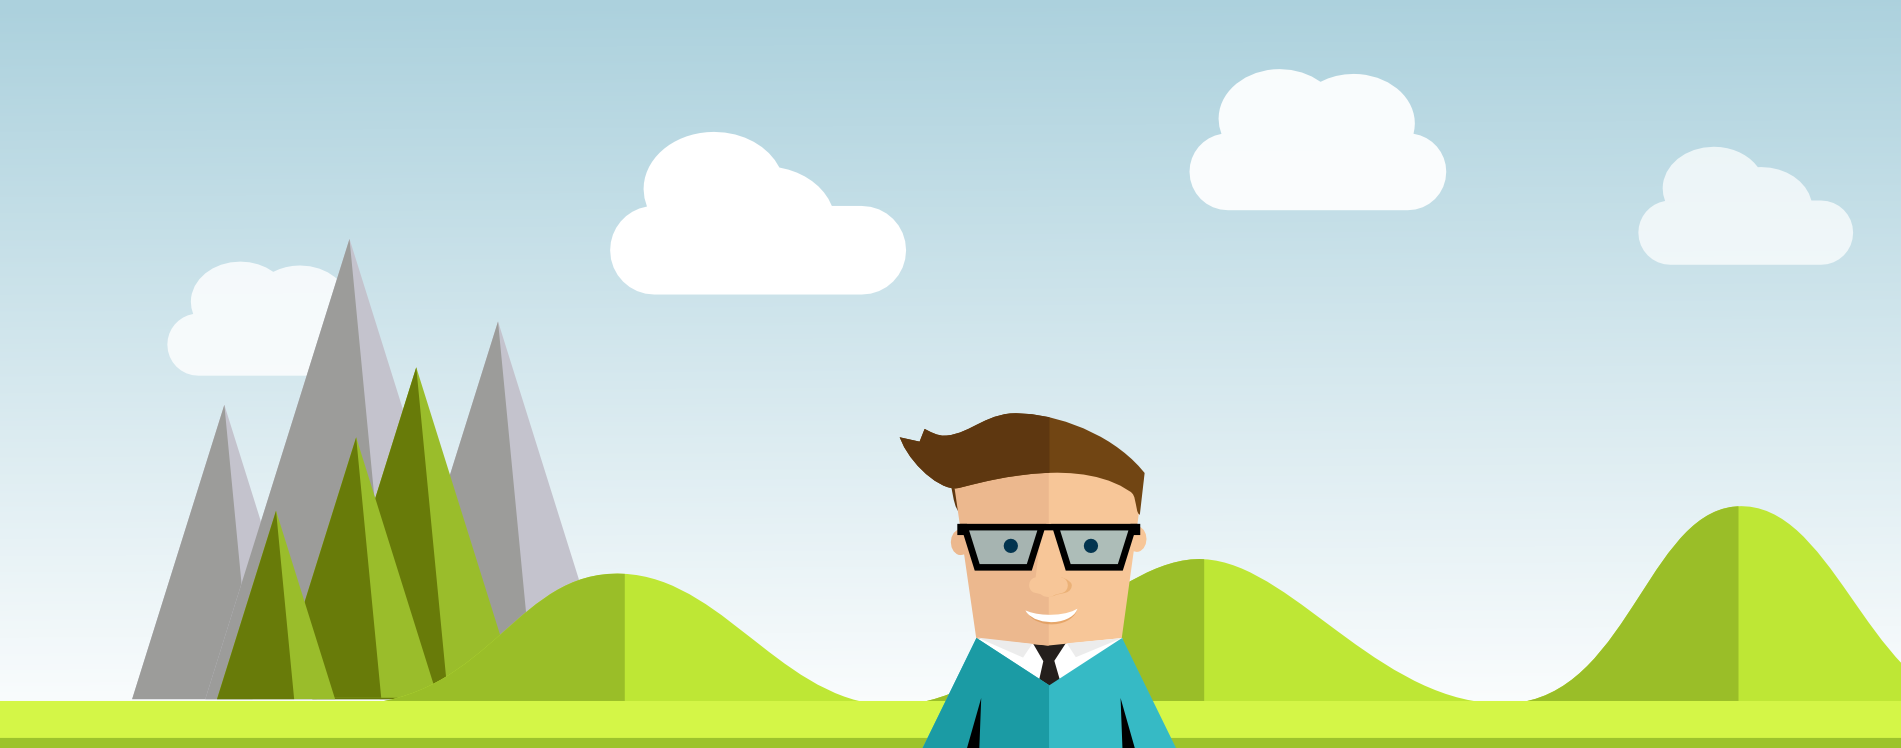
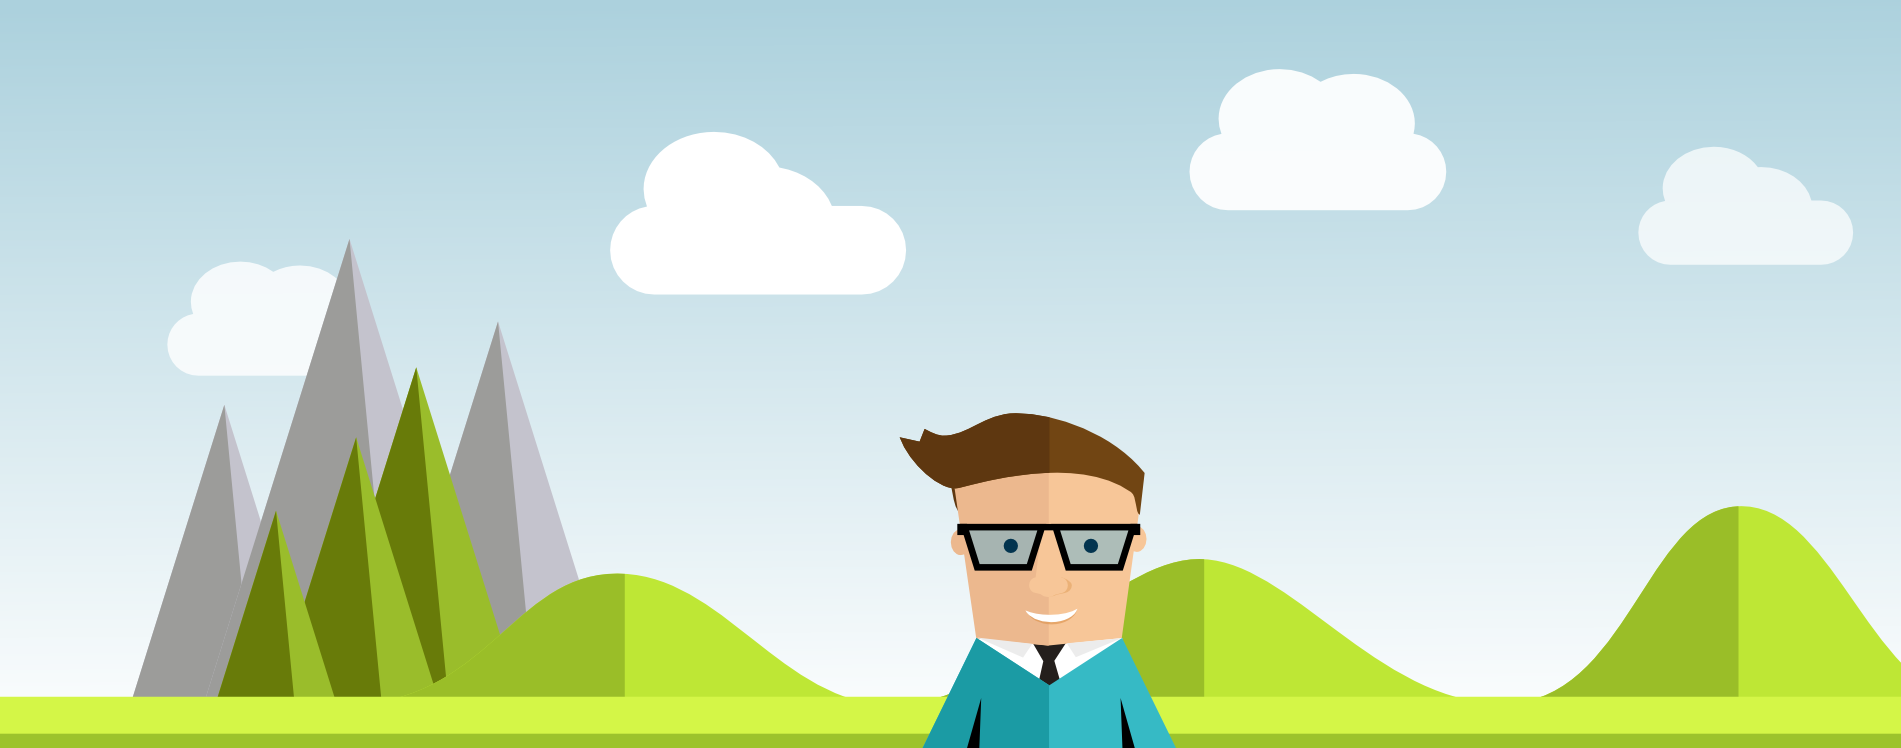
maquetado bg ok

diff --git a/static/frontend/stylesheets/portada.css b/static/frontend/stylesheets/portada.css
@@ -64,7 +64,7 @@ body {
   color: #222222;
   padding: 0;
   margin: 0;
-  font-family: "Helvetica Neue", Helvetica, Roboto, Arial, sans-serif;
+  font-family: "Asap", "Helvetica Neue", Helvetica, Roboto, Arial, sans-serif;
   font-weight: normal;
   font-style: normal;
   line-height: 1.5;
@@ -1621,7 +1621,7 @@ select {
   color: #222222;
   padding: 1rem;
   display: block;
-  font-family: "Helvetica Neue", Helvetica, Roboto, Arial, sans-serif;
+  font-family: "Asap", "Helvetica Neue", Helvetica, Roboto, Arial, sans-serif;
   font-size: 1rem;
 }
 /* line 143, ../bower_components/foundation/scss/foundation/components/_accordion.scss */
@@ -2328,7 +2328,7 @@ button, .button {
   border-style: solid;
   border-width: 0px;
   cursor: pointer;
-  font-family: "Helvetica Neue", Helvetica, Roboto, Arial, sans-serif;
+  font-family: "Asap", "Helvetica Neue", Helvetica, Roboto, Arial, sans-serif;
   font-weight: normal;
   line-height: normal;
   margin: 0 0 1.25rem;
@@ -4267,7 +4267,7 @@ select {
   border-color: #cccccc;
   padding: 0.5rem;
   font-size: 0.875rem;
-  font-family: "Helvetica Neue", Helvetica, Roboto, Arial, sans-serif;
+  font-family: "Asap", "Helvetica Neue", Helvetica, Roboto, Arial, sans-serif;
   color: rgba(0, 0, 0, 0.75);
   line-height: normal;
   border-radius: 0;
@@ -4885,7 +4885,7 @@ kbd {
 /* line 91, ../bower_components/foundation/scss/foundation/components/_labels.scss */
 .label {
   font-weight: normal;
-  font-family: "Helvetica Neue", Helvetica, Roboto, Arial, sans-serif;
+  font-family: "Asap", "Helvetica Neue", Helvetica, Roboto, Arial, sans-serif;
   text-align: center;
   text-decoration: none;
   line-height: 1;
@@ -5464,7 +5464,7 @@ ul.pagination li {
   color: #eeeeee;
   font-weight: normal;
   font-size: 1rem;
-  font-family: "Helvetica Neue", Helvetica, Roboto, Arial, sans-serif;
+  font-family: "Asap", "Helvetica Neue", Helvetica, Roboto, Arial, sans-serif;
 }
 /* line 143, ../bower_components/foundation/scss/foundation/components/_pricing-tables.scss */
 .pricing-table .price {
@@ -5474,7 +5474,7 @@ ul.pagination li {
   color: #333333;
   font-weight: normal;
   font-size: 2rem;
-  font-family: "Helvetica Neue", Helvetica, Roboto, Arial, sans-serif;
+  font-family: "Asap", "Helvetica Neue", Helvetica, Roboto, Arial, sans-serif;
 }
 /* line 144, ../bower_components/foundation/scss/foundation/components/_pricing-tables.scss */
 .pricing-table .description {
@@ -5859,7 +5859,7 @@ dialog[open] {
   padding: 0.875rem 0;
   list-style-type: none;
   list-style-position: outside;
-  font-family: "Helvetica Neue", Helvetica, Roboto, Arial, sans-serif;
+  font-family: "Asap", "Helvetica Neue", Helvetica, Roboto, Arial, sans-serif;
 }
 /* line 70, ../bower_components/foundation/scss/foundation/components/_side-nav.scss */
 .side-nav li {
@@ -5883,7 +5883,7 @@ dialog[open] {
 .side-nav li.active > a:first-child:not(.button) {
   color: #1cc7ff;
   font-weight: normal;
-  font-family: "Helvetica Neue", Helvetica, Roboto, Arial, sans-serif;
+  font-family: "Asap", "Helvetica Neue", Helvetica, Roboto, Arial, sans-serif;
 }
 /* line 93, ../bower_components/foundation/scss/foundation/components/_side-nav.scss */
 .side-nav li.divider {
@@ -6053,7 +6053,7 @@ dialog[open] {
   display: inline;
   margin-left: 1rem;
   margin-bottom: 0;
-  font-family: "Helvetica Neue", Helvetica, Roboto, Arial, sans-serif;
+  font-family: "Asap", "Helvetica Neue", Helvetica, Roboto, Arial, sans-serif;
   font-weight: normal;
   font-size: 0.875rem;
   color: #999999;
@@ -6330,7 +6330,7 @@ table tr td {
   background-color: #efefef;
   color: #222222;
   padding: 1rem 2rem;
-  font-family: "Helvetica Neue", Helvetica, Roboto, Arial, sans-serif;
+  font-family: "Asap", "Helvetica Neue", Helvetica, Roboto, Arial, sans-serif;
   font-size: 1rem;
 }
 /* line 49, ../bower_components/foundation/scss/foundation/components/_tabs.scss */
@@ -6768,7 +6768,7 @@ meta.foundation-mq-topbar {
   color: white;
   padding: 12px 0 12px 0;
   padding-left: 15px;
-  font-family: "Helvetica Neue", Helvetica, Roboto, Arial, sans-serif;
+  font-family: "Asap", "Helvetica Neue", Helvetica, Roboto, Arial, sans-serif;
   font-size: 0.8125rem;
   font-weight: normal;
   text-transform: none;
@@ -7594,7 +7594,7 @@ p aside {
 /* Default header styles */
 /* line 252, ../bower_components/foundation/scss/foundation/components/_type.scss */
 h1, h2, h3, h4, h5, h6 {
-  font-family: "Helvetica Neue", Helvetica, Roboto, Arial, sans-serif;
+  font-family: "Ubuntu", sans-serif;
   font-weight: normal;
   font-style: normal;
   color: #222222;
@@ -9059,10 +9059,21 @@ th.hide-for-touch {
 }
 /* line 5, ../scss/portada.scss */
 .top-wrapper {
+  position: relative;
[1 lines of base64/hex data omitted]
   background-size: 100%;
   background-image: -webkit-gradient(linear, 50% 0%, 50% 100%, color-stop(0%, #9bc8d6), color-stop(100%, #f7fafb));
   background-image: -moz-linear-gradient(#9bc8d6, #f7fafb);
   background-image: -webkit-linear-gradient(#9bc8d6, #f7fafb);
   background-image: linear-gradient(#9bc8d6, #f7fafb);
+}
+/* line 9, ../scss/portada.scss */
+.top-wrapper:before {
+  content: "";
+  display: block;
+  position: absolute;
+  bottom: 0;
+  width: 100%;
+  height: 100px;
+  background: url(../images/bottom.png) repeat-x bottom;
 }

diff --git a/static/frontend/stylesheets/app.css b/static/frontend/stylesheets/app.css
@@ -64,7 +64,7 @@ body {
   color: #222222;
   padding: 0;
   margin: 0;
-  font-family: "Helvetica Neue", Helvetica, Roboto, Arial, sans-serif;
+  font-family: "Asap", "Helvetica Neue", Helvetica, Roboto, Arial, sans-serif;
   font-weight: normal;
   font-style: normal;
   line-height: 1.5;
@@ -1621,7 +1621,7 @@ select {
   color: #222222;
   padding: 1rem;
   display: block;
-  font-family: "Helvetica Neue", Helvetica, Roboto, Arial, sans-serif;
+  font-family: "Asap", "Helvetica Neue", Helvetica, Roboto, Arial, sans-serif;
   font-size: 1rem;
 }
 /* line 143, ../bower_components/foundation/scss/foundation/components/_accordion.scss */
@@ -2328,7 +2328,7 @@ button, .button {
   border-style: solid;
   border-width: 0px;
   cursor: pointer;
-  font-family: "Helvetica Neue", Helvetica, Roboto, Arial, sans-serif;
+  font-family: "Asap", "Helvetica Neue", Helvetica, Roboto, Arial, sans-serif;
   font-weight: normal;
   line-height: normal;
   margin: 0 0 1.25rem;
@@ -4267,7 +4267,7 @@ select {
   border-color: #cccccc;
   padding: 0.5rem;
   font-size: 0.875rem;
-  font-family: "Helvetica Neue", Helvetica, Roboto, Arial, sans-serif;
+  font-family: "Asap", "Helvetica Neue", Helvetica, Roboto, Arial, sans-serif;
   color: rgba(0, 0, 0, 0.75);
   line-height: normal;
   border-radius: 0;
@@ -4885,7 +4885,7 @@ kbd {
 /* line 91, ../bower_components/foundation/scss/foundation/components/_labels.scss */
 .label {
   font-weight: normal;
-  font-family: "Helvetica Neue", Helvetica, Roboto, Arial, sans-serif;
+  font-family: "Asap", "Helvetica Neue", Helvetica, Roboto, Arial, sans-serif;
   text-align: center;
   text-decoration: none;
   line-height: 1;
@@ -5464,7 +5464,7 @@ ul.pagination li {
   color: #eeeeee;
   font-weight: normal;
   font-size: 1rem;
-  font-family: "Helvetica Neue", Helvetica, Roboto, Arial, sans-serif;
+  font-family: "Asap", "Helvetica Neue", Helvetica, Roboto, Arial, sans-serif;
 }
 /* line 143, ../bower_components/foundation/scss/foundation/components/_pricing-tables.scss */
 .pricing-table .price {
@@ -5474,7 +5474,7 @@ ul.pagination li {
   color: #333333;
   font-weight: normal;
   font-size: 2rem;
-  font-family: "Helvetica Neue", Helvetica, Roboto, Arial, sans-serif;
+  font-family: "Asap", "Helvetica Neue", Helvetica, Roboto, Arial, sans-serif;
 }
 /* line 144, ../bower_components/foundation/scss/foundation/components/_pricing-tables.scss */
 .pricing-table .description {
@@ -5859,7 +5859,7 @@ dialog[open] {
   padding: 0.875rem 0;
   list-style-type: none;
   list-style-position: outside;
-  font-family: "Helvetica Neue", Helvetica, Roboto, Arial, sans-serif;
+  font-family: "Asap", "Helvetica Neue", Helvetica, Roboto, Arial, sans-serif;
 }
 /* line 70, ../bower_components/foundation/scss/foundation/components/_side-nav.scss */
 .side-nav li {
@@ -5883,7 +5883,7 @@ dialog[open] {
 .side-nav li.active > a:first-child:not(.button) {
   color: #1cc7ff;
   font-weight: normal;
-  font-family: "Helvetica Neue", Helvetica, Roboto, Arial, sans-serif;
+  font-family: "Asap", "Helvetica Neue", Helvetica, Roboto, Arial, sans-serif;
 }
 /* line 93, ../bower_components/foundation/scss/foundation/components/_side-nav.scss */
 .side-nav li.divider {
@@ -6053,7 +6053,7 @@ dialog[open] {
   display: inline;
   margin-left: 1rem;
   margin-bottom: 0;
-  font-family: "Helvetica Neue", Helvetica, Roboto, Arial, sans-serif;
+  font-family: "Asap", "Helvetica Neue", Helvetica, Roboto, Arial, sans-serif;
   font-weight: normal;
   font-size: 0.875rem;
   color: #999999;
@@ -6330,7 +6330,7 @@ table tr td {
   background-color: #efefef;
   color: #222222;
   padding: 1rem 2rem;
-  font-family: "Helvetica Neue", Helvetica, Roboto, Arial, sans-serif;
+  font-family: "Asap", "Helvetica Neue", Helvetica, Roboto, Arial, sans-serif;
   font-size: 1rem;
 }
 /* line 49, ../bower_components/foundation/scss/foundation/components/_tabs.scss */
@@ -6768,7 +6768,7 @@ meta.foundation-mq-topbar {
   color: white;
   padding: 12px 0 12px 0;
   padding-left: 15px;
-  font-family: "Helvetica Neue", Helvetica, Roboto, Arial, sans-serif;
+  font-family: "Asap", "Helvetica Neue", Helvetica, Roboto, Arial, sans-serif;
   font-size: 0.8125rem;
   font-weight: normal;
   text-transform: none;
@@ -7594,7 +7594,7 @@ p aside {
 /* Default header styles */
 /* line 252, ../bower_components/foundation/scss/foundation/components/_type.scss */
 h1, h2, h3, h4, h5, h6 {
-  font-family: "Helvetica Neue", Helvetica, Roboto, Arial, sans-serif;
+  font-family: "Ubuntu", sans-serif;
   font-weight: normal;
   font-style: normal;
   color: #222222;

diff --git a/static/frontend/scss/_settings.scss b/static/frontend/scss/_settings.scss
@@ -87,7 +87,7 @@ $row-width: rem-calc(1860);
 // - - - - - - - - - - - - - - - - - - - - - - - - -
 
 // We use these to define default font stacks
-// $font-family-sans-serif: "Helvetica Neue", Helvetica, Roboto, Arial, sans-serif;
+$font-family-sans-serif: "Asap", "Helvetica Neue", Helvetica, Roboto, Arial, sans-serif;
 // $font-family-serif: Georgia, Cambria, "Times New Roman", Times, serif;
 // $font-family-monospace: Consolas, "Liberation Mono", Courier, monospace;
 
@@ -195,7 +195,7 @@ $row-width: rem-calc(1860);
 // $include-html-type-classes: $include-html-classes;
 
 // We use these to control header font styles
-// $header-font-family: $body-font-family;
+$header-font-family: "Ubuntu", sans-serif;
 // $header-font-weight: $font-weight-normal;
 // $header-font-style: normal;
 // $header-font-color: $jet;

diff --git a/static/frontend/scss/portada.scss b/static/frontend/scss/portada.scss
@@ -3,5 +3,16 @@
 @import "compass/css3";
 
 .top-wrapper {
+    position: relative;
     @include background-image(linear-gradient(#9BC8D6, #F7FAFB));
+
+    &:before{
+        content: "";
+        display: block;
+        position: absolute;
+        bottom: 0;
+        width: 100%;
+        height: 100px;
+        background: url(../images/bottom.png) repeat-x bottom;
+    };
 }

diff --git a/planetofheroes/templates/planetofheroes/portada.html b/planetofheroes/templates/planetofheroes/portada.html
@@ -13,7 +13,7 @@
   <div class="top-wrapper">
     <div class="row">
       <div class="large-3 columns">
-        <h1><img src="{% static 'frontend/images/logo.png' %}"/></h1>
+        <h1><img alt="World of Heroes" src="{% static 'frontend/images/logo.png' %}"/></h1>
       </div>
       <div class="large-9 columns">
 
